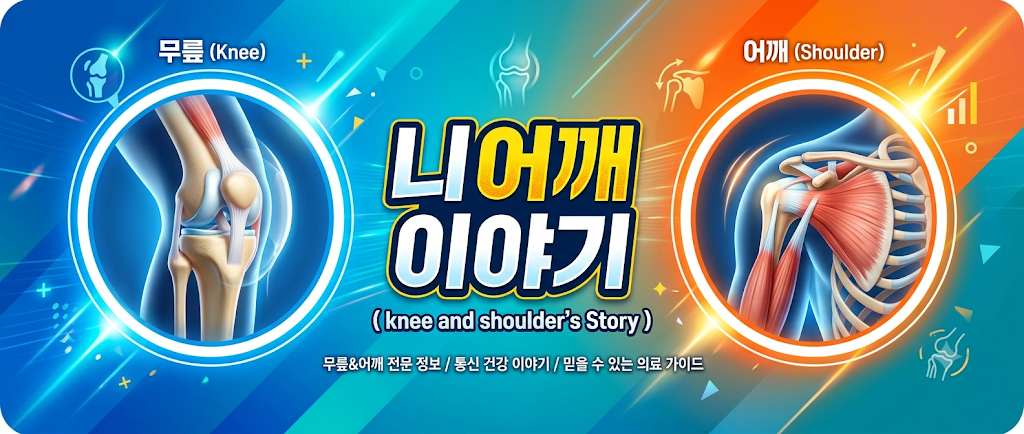
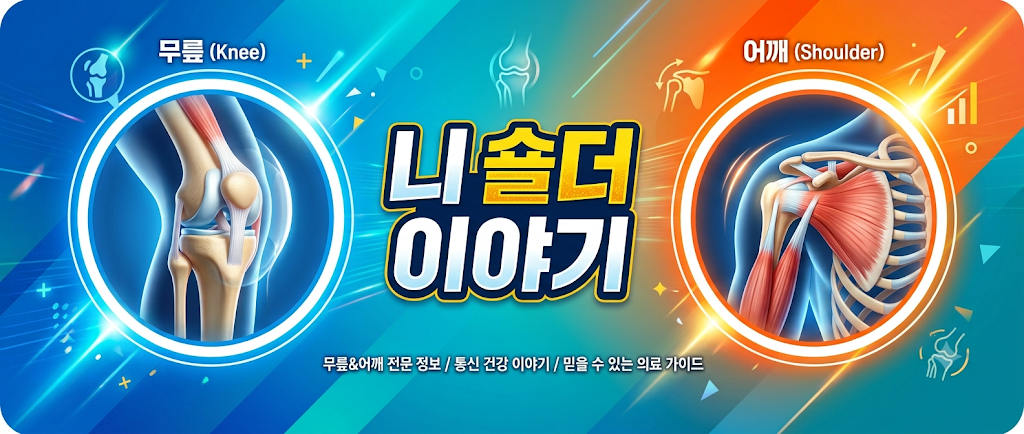
design: 니숄더이야기 배너 이미지 교체 및 텍스트 수정

Changed region(s): [[0.3438, 0.2696, 0.6562, 0.7788]]

diff --git a/src/app/page.tsx b/src/app/page.tsx
@@ -185,10 +185,10 @@ export default function Home() {
             )}
           </div>
 
-          {/* 🎯 니 어깨 이야기 홍보 배너 */}
+          {/* 🎯 니 숄더 이야기 홍보 배너 */}
           <div id="knee-shoulder-banner" className="relative mx-auto mt-12 max-w-4xl overflow-hidden rounded-3xl border border-slate-200 bg-white shadow-md">
             {/* eslint-disable-next-line @next/next/no-img-element */}
-            <img src="/knee-shoulder-banner.png" alt="니 어깨 이야기 배너" className="w-full h-auto object-cover" />
+            <img src="/knee-shoulder-banner.png" alt="니 숄더 이야기 배너" className="w-full h-auto object-cover" />
             
             {/* 무릎 이야기 버튼 */}
             <Link 

diff --git a/src/components/Header.tsx b/src/components/Header.tsx
@@ -32,7 +32,7 @@ export default function Header() {
             href="/#knee-shoulder-banner" 
             className="text-xs sm:text-sm font-medium text-slate-600 transition hover:text-teal-600"
           >
-            니어깨이야기
+            니숄더이야기
           </Link>
           <Link 
             href="/break" 